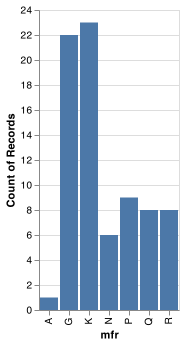
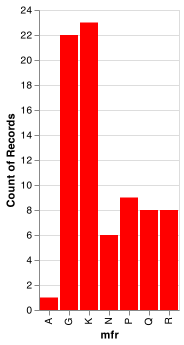
added  module 1.31

Changed region(s): [[0.2174, 0.058, 0.9783, 0.8986]]

diff --git a/chapters/en/slides/module1/module1_31.md b/chapters/en/slides/module1/module1_31.md
@@ -1,6 +1,8 @@
+---
 type: slides
+---
 
-# Quick Viz with Pandas\!
+# Quick Viz with Altair\!
 
 Notes: Script here.
 
@@ -14,7 +16,7 @@ Notes: Script here.
 
 </html>
 
------
+---
 
 If we want to visualize things using different plots we can do that
 pretty quickly and with little code\! Take `manufacturer_freq` object we
@@ -24,14 +26,16 @@ made in the last slide deck.
 manufacturer_freq
 ```
 
-    ## K    23
-    ## G    22
-    ## P     9
-    ## R     8
-    ## Q     8
-    ## N     6
-    ## A     1
-    ## Name: mfr, dtype: int64
+```out
+K    23
+G    22
+P     9
+R     8
+Q     8
+N     6
+A     1
+Name: mfr, dtype: int64
+```
 
 This would be great to express as a bar chart. But how do we do it?
 
@@ -47,7 +51,7 @@ Notes: Script here.
 
 </html>
 
------
+---
 
 1.  We take the dataframe we wish to plot, in this case `freq_mfr_df`.  
 2.  Next we add `.plot` since we want to plot it\!  
@@ -60,7 +64,7 @@ Notes: Script here.
 manufacturer_freq.plot.bar()
 ```
 
-<img src="../../../../static/module1/module1_31/unnamed-chunk-4-1.png" width="576" />
+<img src="/module1/module1_31/unnamed-chunk-4-1.png" width="576" />
 See how quick that was? The important things to notice here is that we
 want to `.plot` a `.bar()` graph.
 
@@ -76,7 +80,7 @@ Notes: Script here.
 
 </html>
 
------
+---
 
 What else can we plot from our original cereal dataframe named `df`?
 Maybe we want to see the relationship between `sugars` and `calories` in
@@ -90,7 +94,7 @@ x-axis is the `sugars` column and the y-axis is the `calories` column.
 df.plot.scatter(x='sugars', y='calories')
 ```
 
-<img src="../../../../static/module1/module1_31/unnamed-chunk-5-1.png" width="576" />
+<img src="/module1/module1_31/unnamed-chunk-5-1.png" width="576" />
 
 Notes: Script here.
 
@@ -104,7 +108,7 @@ Notes: Script here.
 
 </html>
 
------
+---
 
 Something you may have noticed is that there are 77 cereals but there
 doesn’t seem to be 77 data points\! That’s because some of them are
@@ -117,7 +121,7 @@ and 1, with 1 being full intensity.
 df.plot.scatter(x='sugars', y='calories', alpha=0.3)
 ```
 
-<img src="../../../../static/module1/module1_31/unnamed-chunk-6-1.png" width="576" />
+<img src="/module1/module1_31/unnamed-chunk-6-1.png" width="576" />
 
 Notes: Script here.
 
@@ -131,7 +135,7 @@ Notes: Script here.
 
 </html>
 
------
+---
 
 Look at that\! Now we can see there are multiple cereals that have 2.5g
 of sugar with 100 calories. What if we wanted to change the colour to
@@ -145,7 +149,7 @@ df.plot.scatter(x='sugars',
                 color='purple')
 ```
 
-<img src="../../../../static/module1/module1_31/unnamed-chunk-7-1.png" width="60%" />
+<img src="/module1/module1_31/unnamed-chunk-7-1.png" width="60%" />
 
 Notes: Script here.
 
@@ -159,7 +163,7 @@ Notes: Script here.
 
 </html>
 
------
+---
 
 Those data points look pretty small. To enlarge them, the argument `s`
 should do the trick. Also every good graph should have a title\! Let’s
@@ -175,29 +179,23 @@ df.plot.scatter(x="sugars",
                 title="The relationship between sugar and calories in cereals")
 ```
 
-<img src="../../../../static/module1/module1_31/unnamed-chunk-8-1.png" width="60%" />
+<img src="/module1/module1_31/unnamed-chunk-8-1.png" width="60%" />
 
------
+---
 
 ``` python
-import altair as alt
-import pandas as pd
-from altair_saver import save
 
 source = pd.read_csv('cereal.csv')
 
-chart1 = alt.Chart(source).mark_bar().encode(
+chart1 = alt.Chart(source).mark_bar(color = 'red').encode(
     x='mfr',
     y='count()'
 )
 chart1
 ```
+<img src="/module1/chart1.png" alt="A caption" width="30%" />
 
-    ## alt.Chart(...)
-
-<img src="/module1/chart1.png" alt="A caption" width="20%" />
-
------
+---
 
 # Let’s apply what we learned\!
 

diff --git a/chapters/en/module4.md b/chapters/en/module4.md
@@ -656,7 +656,37 @@ Running a coding exercise for the first time could take a bit of time for everyt
 
 **When you see `____` in a coding exercise, replace it with what you assume to be the correct code.  Run it and see if you obtain the desired output.  Submit your code to validate if you were correct.**
 
-Let's explore `dtypes` with dataframes.. 
+Let's explore `dtypes` with dataframes. 
+
+**Question 1**     
+What dtype is the `Salary` column?
+
+<choice id="1" >
+<opt text="<code>float64</code>" correct="true">
+
+Nice!
+
+</opt>
+
+<opt text="<code>int64</code>">
+
+Are you looking at the output from above? 
+
+</opt>
+
+<opt text="<code>object</code>">
+
+Are you looking at the output from above? 
+
+</opt>
+
+<opt text="<code>bool</code>" >
+
+Are you looking at the output from above? 
+
+</opt>
+
+</choice> 
 
 Tasks:
 

diff --git a/chapters/en/module1.md b/chapters/en/module1.md
@@ -16,7 +16,7 @@ id: 1
 </exercise>
 
 
-<exercise id="1" title="Introduction to Dataframes " type="slides">
+<exercise id="1" title="Introduction to Dataframes" type="slides">
 
 <slides source="module1/module1_01">
 </slides>
@@ -912,7 +912,7 @@ _If you get a warning along with your output, that's fine. We will explain why t
 
 </exercise>
 
-<exercise id="31" title="Quick Viz with Pandas" type="slides">
+<exercise id="31" title="Quick Viz with Altair" type="slides">
 <slides source="module1/module1_31">
 </slides>
 </exercise>
